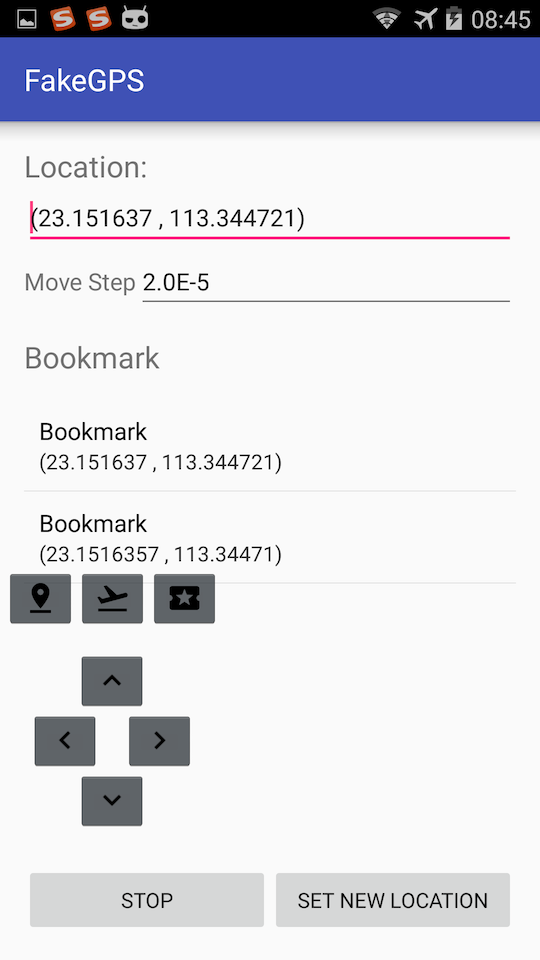
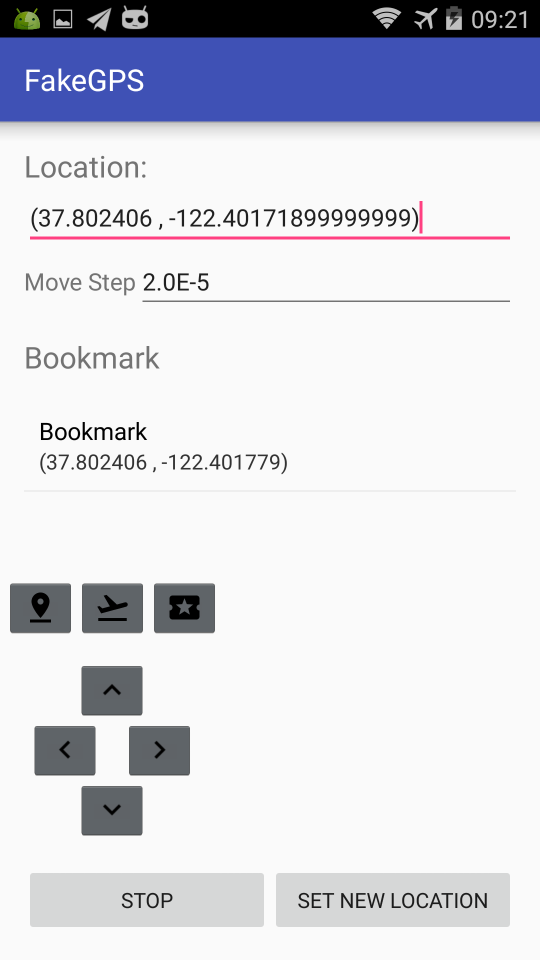
refresh list when bookmark update

diff --git a/app/src/main/java/com/tencent/fakegps/ui/MainActivity.java b/app/src/main/java/com/tencent/fakegps/ui/MainActivity.java
@@ -1,11 +1,15 @@
 package com.tencent.fakegps.ui;
 
+import android.content.BroadcastReceiver;
 import android.content.Context;
 import android.content.DialogInterface;
 import android.content.Intent;
+import android.content.IntentFilter;
 import android.os.Bundle;
+import android.support.v4.content.LocalBroadcastManager;
 import android.support.v7.app.AlertDialog;
 import android.support.v7.app.AppCompatActivity;
+import android.text.TextUtils;
 import android.view.ContextMenu;
 import android.view.Menu;
 import android.view.MenuItem;
@@ -16,7 +20,9 @@ import android.widget.EditText;
 import android.widget.ListView;
 import android.widget.Toast;
 
+import com.tencent.fakegps.BroadcastEvent;
 import com.tencent.fakegps.DbUtils;
+import com.tencent.fakegps.FakeGpsApp;
 import com.tencent.fakegps.FakeGpsUtils;
 import com.tencent.fakegps.JoyStickManager;
 import com.tencent.fakegps.R;
@@ -52,8 +58,15 @@ public class MainActivity extends AppCompatActivity implements View.OnClickListe
         if (currentLocPoint != null) {
             mLocEditText.setText(currentLocPoint.toString());
         } else {
-            mLocEditText.setText(DbUtils.getLastLocPoint(this));
+            String lastLocPoint = DbUtils.getLastLocPoint(this);
+            if (!TextUtils.isEmpty(lastLocPoint)) {
+                mLocEditText.setText(lastLocPoint);
+            } else {
+                mLocEditText.setText(new LocPoint(LAT_DEFAULT, LON_DEFAULT).toString());
+            }
         }
+
+        mLocEditText.setSelection(mLocEditText.getText().length());
 
         //each move step delta
         mMoveStepEditText = (EditText) findViewById(R.id.inputStep);
@@ -72,7 +85,7 @@ public class MainActivity extends AppCompatActivity implements View.OnClickListe
 
         initListView();
 
-
+        registerBroadcastReceiver();
     }
 
     @Override
@@ -176,12 +189,37 @@ public class MainActivity extends AppCompatActivity implements View.OnClickListe
                 .setPositiveButton("OK", new DialogInterface.OnClickListener() {
                     public void onClick(DialogInterface dialog, int which) {
                         DbUtils.deleteBookmark(bookmark);
-                        ArrayList<LocBookmark> allBookmark = DbUtils.getAllBookmark();
-                        mAdapter.setLocBookmarkList(allBookmark);
                     }
                 })
                 .setNegativeButton("Cancel", null)
                 .show();
+    }
+
+    private void registerBroadcastReceiver() {
+        IntentFilter intentFilter = new IntentFilter(BroadcastEvent.BookMark.ACTION_BOOK_MARK_UPDATE);
+        LocalBroadcastManager.getInstance(FakeGpsApp.get()).registerReceiver(mBroadcastReceiver, intentFilter);
+    }
+
+    private void unregisterBroadcastReceiver() {
+        LocalBroadcastManager.getInstance(FakeGpsApp.get()).unregisterReceiver(mBroadcastReceiver);
+    }
+
+    private BroadcastReceiver mBroadcastReceiver = new BroadcastReceiver() {
+        @Override
+        public void onReceive(Context context, Intent intent) {
+            String action = intent.getAction();
+            if (BroadcastEvent.BookMark.ACTION_BOOK_MARK_UPDATE.equals(action)) {
+                ArrayList<LocBookmark> allBookmark = DbUtils.getAllBookmark();
+                mAdapter.setLocBookmarkList(allBookmark);
+            }
+        }
+    };
+
+
+    @Override
+    protected void onDestroy() {
+        unregisterBroadcastReceiver();
+        super.onDestroy();
     }
 
     public static void startPage(Context context) {

diff --git a/app/src/main/java/com/tencent/fakegps/ui/FlyToActivity.java b/app/src/main/java/com/tencent/fakegps/ui/FlyToActivity.java
@@ -1,11 +1,15 @@
 package com.tencent.fakegps.ui;
 
+import android.content.BroadcastReceiver;
 import android.content.Context;
 import android.content.DialogInterface;
 import android.content.Intent;
+import android.content.IntentFilter;
 import android.os.Bundle;
+import android.support.v4.content.LocalBroadcastManager;
 import android.support.v7.app.AlertDialog;
 import android.support.v7.app.AppCompatActivity;
+import android.text.TextUtils;
 import android.view.ContextMenu;
 import android.view.Menu;
 import android.view.MenuItem;
@@ -16,7 +20,9 @@ import android.widget.EditText;
 import android.widget.ListView;
 import android.widget.Toast;
 
+import com.tencent.fakegps.BroadcastEvent;
 import com.tencent.fakegps.DbUtils;
+import com.tencent.fakegps.FakeGpsApp;
 import com.tencent.fakegps.FakeGpsUtils;
 import com.tencent.fakegps.JoyStickManager;
 import com.tencent.fakegps.R;
@@ -53,9 +59,13 @@ public class FlyToActivity extends AppCompatActivity implements View.OnClickList
         if (currentLocPoint != null) {
             mLocEditText.setText(currentLocPoint.toString());
         } else {
-            mLocEditText.setText(new LocPoint(LAT_DEFAULT, LON_DEFAULT).toString());
+            String lastLocPoint = DbUtils.getLastLocPoint(this);
+            if (!TextUtils.isEmpty(lastLocPoint)) {
+                mLocEditText.setText(lastLocPoint);
+            } else {
+                mLocEditText.setText(new LocPoint(LAT_DEFAULT, LON_DEFAULT).toString());
+            }
         }
-
         //each move step delta
         mFlyTimeEditText = (EditText) findViewById(R.id.inputFlyTime);
         mFlyTimeEditText.setText(String.valueOf(FLY_TIME_DEFAULT));
@@ -68,7 +78,7 @@ public class FlyToActivity extends AppCompatActivity implements View.OnClickList
 
         initListView();
 
-
+        registerBroadcastReceiver();
     }
 
     @Override
@@ -156,6 +166,32 @@ public class FlyToActivity extends AppCompatActivity implements View.OnClickList
                 })
                 .setNegativeButton("Cancel", null)
                 .show();
+    }
+
+    private void registerBroadcastReceiver() {
+        IntentFilter intentFilter = new IntentFilter(BroadcastEvent.BookMark.ACTION_BOOK_MARK_UPDATE);
+        LocalBroadcastManager.getInstance(FakeGpsApp.get()).registerReceiver(mBroadcastReceiver, intentFilter);
+    }
+
+    private void unregisterBroadcastReceiver() {
+        LocalBroadcastManager.getInstance(FakeGpsApp.get()).unregisterReceiver(mBroadcastReceiver);
+    }
+
+    private BroadcastReceiver mBroadcastReceiver = new BroadcastReceiver() {
+        @Override
+        public void onReceive(Context context, Intent intent) {
+            String action = intent.getAction();
+            if (BroadcastEvent.BookMark.ACTION_BOOK_MARK_UPDATE.equals(action)) {
+                ArrayList<LocBookmark> allBookmark = DbUtils.getAllBookmark();
+                mAdapter.setLocBookmarkList(allBookmark);
+            }
+        }
+    };
+
+    @Override
+    protected void onDestroy() {
+        unregisterBroadcastReceiver();
+        super.onDestroy();
     }
 
     public static void startPage(Context context) {

diff --git a/app/src/main/java/com/tencent/fakegps/DbUtils.java b/app/src/main/java/com/tencent/fakegps/DbUtils.java
@@ -1,7 +1,9 @@
 package com.tencent.fakegps;
 
 import android.content.Context;
+import android.content.Intent;
 import android.support.annotation.NonNull;
+import android.support.v4.content.LocalBroadcastManager;
 
 import com.litesuits.orm.db.model.ConflictAlgorithm;
 import com.tencent.fakegps.model.LocBookmark;
@@ -26,12 +28,17 @@ public final class DbUtils {
         if (bookmark == null) {
             return -1;
         }
-        return FakeGpsApp.getLiteOrm().insert(bookmark, ConflictAlgorithm.Replace);
+        long id = FakeGpsApp.getLiteOrm().insert(bookmark, ConflictAlgorithm.Replace);
+        if (id != -1) {
+            notifyBookmarkUpdate();
+        }
+        return id;
     }
 
     public static void deleteBookmark(LocBookmark bookmark) {
         if (bookmark == null) return;
         FakeGpsApp.getLiteOrm().delete(bookmark);
+        notifyBookmarkUpdate();
     }
 
     public static void saveBookmark(Collection<LocBookmark> bookmarks) {
@@ -52,6 +59,11 @@ public final class DbUtils {
     public static String getLastLocPoint(@NonNull Context context) {
         return context.getSharedPreferences(SHARED_PREF_NAME, Context.MODE_PRIVATE)
                 .getString(KEY_LAST_LOC, "");
+    }
+
+    public static void notifyBookmarkUpdate() {
+        Intent intent = new Intent(BroadcastEvent.BookMark.ACTION_BOOK_MARK_UPDATE);
+        LocalBroadcastManager.getInstance(FakeGpsApp.get()).sendBroadcast(intent);
     }
 
 }

diff --git a/app/src/main/java/com/tencent/fakegps/FakeGpsApp.java b/app/src/main/java/com/tencent/fakegps/FakeGpsApp.java
@@ -25,6 +25,10 @@ public class FakeGpsApp extends Application {
         JoyStickManager.get().init(this);
     }
 
+    public static Context get() {
+        return sAppContext;
+    }
+
     public static LiteOrm getLiteOrm() {
         if (sLiteOrm == null) {
             synchronized (FakeGpsApp.class) {
@@ -36,4 +40,5 @@ public class FakeGpsApp extends Application {
         }
         return sLiteOrm;
     }
+
 }

diff --git a/app/src/main/java/com/tencent/fakegps/BroadcastEvent.java b/app/src/main/java/com/tencent/fakegps/BroadcastEvent.java
@@ -1,0 +1,12 @@
+package com.tencent.fakegps;
+
+/**
+ * Created by tiger on 7/28/16.
+ */
+public class BroadcastEvent {
+
+    public static final class BookMark {
+        public static final String ACTION_BOOK_MARK_UPDATE = "action_book_mark_update";
+
+    }
+}

diff --git a/README.md b/README.md
@@ -2,7 +2,8 @@
 
 FakeGPS是一个GPS设备模拟器，能够根据给定的坐标，输出GPS定位信号，并且带有全局悬浮窗的手柄，通过手柄上的方向按键，能够模拟用户在地图上行走。
 
-FakeGPS之所以能够诞生，就是因为Pokemon Go，希望实现坐在室内却可以让游戏认为你在美国街头游走的效果。终于，成功了。
+FakeGPS另外一个很有意思的用途就是Pokemon Go，在中国大陆地区，如果不伪造GPS位置，Pokemon Go的地图上是没有任何数据的。所以，借助FakeGPS后，就可以实现坐在室内却可以让游戏认为你在美国街头游走的效果。
+不过，作者还是建议文明游戏，反对cheating。(*^__^*)
 
 按照惯例，先放截图。
 
